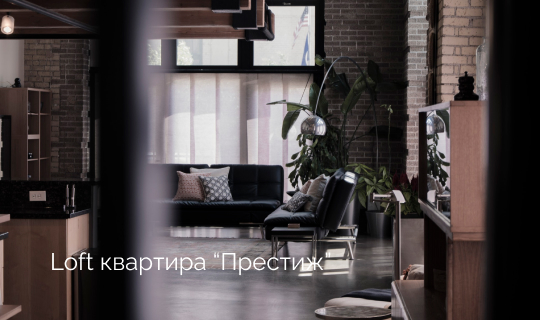
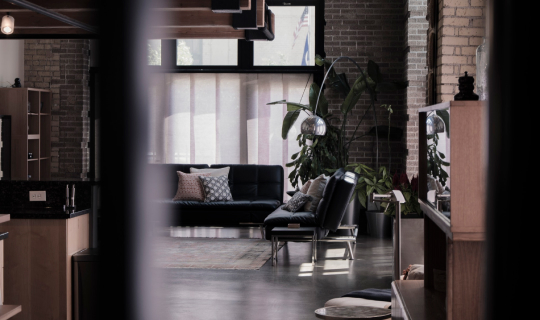
appartment cards media

Changed region(s): [[0.0889, 0.7812, 0.5926, 0.8438], [0.5926, 0.7812, 0.6222, 0.8125]]

diff --git a/dist/css/style.min.css b/dist/css/style.min.css
@@ -1,1 +1,1 @@
-@import url(https://fonts.googleapis.com/css2?family=Playfair+Display:wght@700&family=Raleway:wght@400;700&family=Roboto:wght@300&display=swap);*{padding:0;margin:0;box-sizing:border-box}li{list-style-type:none}ul{margin:0}.none{display:none}body{font-family:Raleway,sans-serif;background-color:#242b33;color:#fff;font-size:16px}a{text-decoration:none;color:#fff;transition:color .2s ease-in}a:hover{color:#d4c17f}.container{max-width:1110px;width:100%;padding:0 15px;margin:0 auto}.text-right{text-align:right}.title-2{font-size:36px;font-weight:700;font-family:"Playfair Display",serif;color:#d4c17f}.link-bold{color:#d4c17f;font-weight:700}.no-scroll{overflow-y:hidden}.header{display:flex;flex-direction:column;justify-content:space-between;padding-top:30px;padding-bottom:74px;min-height:840px;background:linear-gradient(180deg,#242b33 11.98%,rgba(45,52,60,.38) 51.04%,#242b33 92.19%),url(../img/header/header-bg.jpg) no-repeat center/cover}@media screen and (max-width:999px){.header{min-height:unset;row-gap:50px}}.header__top-row{display:flex;justify-content:space-between;align-items:center}.header__top-row--mobile{position:fixed;top:40px;right:0;width:100%;height:100%;background:#242b33;z-index:99;flex-direction:column;justify-content:flex-start}.header__top-row--mobile .header__nav-btn{position:fixed;top:50px;right:15px}.header__top-row--mobile .header__nav{display:block}.header__top-row--mobile .nav__list{flex-direction:column;align-items:center;row-gap:15px}@media screen and (max-width:999px){.header__nav{display:none}}.header__nav-btn{display:none}@media screen and (max-width:999px){.header__nav-btn{display:block}}.header__title{position:relative;padding-bottom:121px;text-align:center;font-size:48px;font-family:"Playfair Display",serif;font-weight:700;color:#d4c17f}@media screen and (max-width:999px){.header__title{font-size:32px;padding-bottom:100px}}.header__title-icon{position:absolute;bottom:0;left:50%;transform:translate(-50%,0)}.header__bottom{display:grid;grid-template-columns:1fr 1fr;gap:100px}@media screen and (max-width:999px){.header__bottom{display:flex;flex-direction:column;align-items:center;row-gap:50px;font-size:14px}}nav{font-size:14px;letter-spacing:.05em}.nav__list{display:flex;-moz-column-gap:40px;column-gap:40px}.nav-icon-btn{--time:0.1s;--width:40px;--height:30px;--line-height:1.6px;--line-margin:2;--color:#fff;height:var(--height);width:var(--width);display:flex;justify-content:center;align-items:center;border:none;background:rgba(0,0,0,0)}.nav-icon{position:relative;width:var(--width);height:var(--line-height);background-color:var(--color)}.nav-icon::after,.nav-icon::before{content:"";display:block;position:absolute;left:0;width:var(--width);height:var(--line-height);background-color:var(--color);transition:transform var(--time) ease-in,top var(--time) linear var(--time)}.nav-icon::before{top:calc(var(--line-height)*-6)}.nav-icon::after{top:calc(var(--line-height)*6)}.nav-icon.nav-icon--active{background-color:rgba(0,0,0,0)}.nav-icon.nav-icon--active::after,.nav-icon.nav-icon--active::before{top:0;transition:top var(--time) linear,transform var(--time) ease-in var(--time)}.nav-icon.nav-icon--active::before{transform:rotate(45deg)}.nav-icon.nav-icon--active::after{transform:rotate(-45deg)}.info__map,.info__tel{position:relative;font-size:18px;padding-left:35px}.info__map::before,.info__tel::before{content:"";position:absolute;top:0;left:0;width:21px;height:21px;background:url(../img/phone.svg) no-repeat}.info__map::before{content:"";position:absolute;top:50%;left:0;width:21px;height:21px;transform:translate(0,-50%);background:url(../img/map.svg) no-repeat;background-position:center}.benefits{position:relative;padding:120px 0;overflow:hidden}.benefits::after{content:"II";left:calc(50% + 555px);transform:translate(-50%,0);position:absolute;top:0;z-index:-1;line-height:1.15;opacity:.02;font-size:400px;font-family:"Playfair Display",serif}.benefits__row{display:flex;justify-content:center;-moz-column-gap:70px;column-gap:70px}@media screen and (max-width:999px){.benefits__row{display:grid;grid-template-columns:repeat(auto-fit,minmax(290px,1fr));gap:40px 30px}}.benefits__item{text-align:center}.benefits__item-img{margin-bottom:53px}@media screen and (max-width:999px){.benefits__item-img{width:60px;height:60px;margin-bottom:20px}}.benefits__item-text{font-family:Roboto,sans-serif;font-size:20px;font-weight:300;line-height:1.35}@media screen and (max-width:999px){.benefits__item-text{font-size:16px}}.appartments{position:relative}.appartments::before{content:"III";right:calc(50% + 555px);transform:translate(50%,0);position:absolute;top:0;z-index:-1;line-height:1.15;opacity:.02;font-size:400px;font-family:"Playfair Display",serif}.appartments__title{margin-bottom:88px}.appartments__cards{display:grid;grid-template-columns:repeat(2,1fr);gap:30px}.card{display:inline-block;position:relative;color:#fff;overflow:hidden}.card::before{content:"";position:absolute;top:0;left:0;width:100%;height:100%;z-index:6;background:linear-gradient(180deg,rgba(36,43,51,0) 0,#242b33 100%)}.card::after{content:"";position:absolute;opacity:0;top:10px;left:10px;right:10px;bottom:10px;border:3px double rgba(255,255,255,.4);z-index:7}.card:hover::after{opacity:1;transition:opacity .3s ease-in}.card:hover{color:#fff}.card__title{position:absolute;left:50px;right:20px;bottom:44px;font-size:24px;z-index:9}.card__img{position:relative;z-index:5;transition:all .3s ease-in}.card:hover .card__img{transform:scale(1.1);-webkit-filter:contrast(110%) brightness(1.2) saturate(1.2);filter:contrast(110%) brightness(1.2) saturate(1.2)}.cta{padding:180px 0;background:linear-gradient(180deg,#242b33 10.42%,rgba(36,43,51,0) 50.52%,#242b33 90.1%),linear-gradient(0deg,rgba(36,43,51,.9),rgba(36,43,51,.9)),url(../img/cta/cta-bg.jpg),#c4c4c4}.cta__title{margin-bottom:17px}.cta__wrapper{display:grid;grid-template-columns:1fr 1fr;gap:30px}.cta__text{line-height:1.5}.form__input{height:50px;padding:12px;text-align:center;background-color:rgba(255,255,255,.2);outline:0;border:none;color:#fff;font-size:14px;transition:background-color .2s ease-in}.form__input::-webkit-input-placeholder{color:#bebebe}.form__input::-moz-placeholder{color:#bebebe}.form__input:-ms-input-placeholder{color:#bebebe}.form__input::-ms-input-placeholder{color:#bebebe}.form__input::placeholder{color:#bebebe}.form__input:focus{background-color:rgba(255,255,255,.3)}.form__btn{height:50px;font-size:16px;padding:12px;background-color:#d4c17f;border:none;color:#fff;text-align:center;transition:background-color .2s ease-in}.form__btn:hover{background-color:#e5ca6e}.form__privacy{font-size:13px;color:#e7e7e7;line-height:1.23;text-align:center;margin-top:11px}.cta__form{display:grid;grid-template-columns:1fr 1fr;gap:35px 30px}.video{position:relative;text-align:center}.video::after{content:"IV";left:calc(50% + 555px);transform:translate(-50%,0);position:absolute;top:0;z-index:-1;line-height:1.15;opacity:.02;font-size:400px;font-family:"Playfair Display",serif}.video__link{position:relative;display:inline-block;text-align:center}.video__link::before{content:"";position:absolute;top:0;left:0;width:100%;height:100%;background:rgba(36,43,51,.8);transition:background-color .2s ease-in}.video__link:hover::before{background:rgba(36,43,51,.7)}.video__icon{position:absolute;top:50%;left:50%;transform:translate(-50%,-50%);transition:all .2s ease-in}.video__link:hover .video__icon{transform:translate(-50%,-50%) scale(1.2);-webkit-filter:saturate(1.5);filter:saturate(1.5)}.section-map{position:relative;padding:180px 0}.section-map::before{content:"V";right:calc(50% + 555px);transform:translate(50%,0);position:absolute;top:0;z-index:-1;line-height:1.15;opacity:.02;font-size:400px;font-family:"Playfair Display",serif;top:180;line-height:1}.section-map__title{padding-bottom:88px}.map{height:358px;background:#696969}.feadback{padding-bottom:180px}.feadback__title{margin-bottom:38px}.feadback__form{display:grid;grid-template-columns:repeat(4,1fr);gap:30px;align-items:center}.footer{padding:72px 0 51px;background-color:#2d343c;font-size:14px;letter-spacing:.05rem}.footer__grid{display:grid;grid-template-columns:repeat(4,1fr);gap:30px}.footer__logo{margin-top:-12px}.footer__nav-list{display:grid;gap:15px}.footer__address{display:grid;gap:20px}.footer__socials{display:flex;align-items:center;-moz-column-gap:22px;column-gap:22px}
+@import url(https://fonts.googleapis.com/css2?family=Playfair+Display:wght@700&family=Raleway:wght@400;700&family=Roboto:wght@300&display=swap);*{padding:0;margin:0;box-sizing:border-box}li{list-style-type:none}ul{margin:0}.none{display:none}body{font-family:Raleway,sans-serif;background-color:#242b33;color:#fff;font-size:16px}a{text-decoration:none;color:#fff;transition:color .2s ease-in}a:hover{color:#d4c17f}.container{max-width:1110px;width:100%;padding:0 15px;margin:0 auto}.text-right{text-align:right}.title-2{font-size:36px;font-weight:700;font-family:"Playfair Display",serif;color:#d4c17f}@media screen and (max-width:959px){.title-2{font-size:28px}}.link-bold{color:#d4c17f;font-weight:700}.no-scroll{overflow-y:hidden}.header{display:flex;flex-direction:column;justify-content:space-between;padding-top:30px;padding-bottom:74px;min-height:840px;background:linear-gradient(180deg,#242b33 11.98%,rgba(45,52,60,.38) 51.04%,#242b33 92.19%),url(../img/header/header-bg.jpg) no-repeat center/cover}@media screen and (max-width:959px){.header{min-height:unset;row-gap:50px}}.header__top-row{display:flex;justify-content:space-between;align-items:center}.header__top-row--mobile{position:fixed;top:40px;right:0;width:100%;height:100%;background:#242b33;z-index:99;flex-direction:column;justify-content:flex-start}.header__top-row--mobile .header__nav-btn{position:fixed;top:50px;right:15px}.header__top-row--mobile .header__nav{display:block}.header__top-row--mobile .nav__list{flex-direction:column;align-items:center;row-gap:15px}@media screen and (max-width:959px){.header__nav{display:none}}.header__nav-btn{display:none}@media screen and (max-width:959px){.header__nav-btn{display:block}}.header__title{position:relative;padding-bottom:121px;text-align:center;font-size:48px;font-family:"Playfair Display",serif;font-weight:700;color:#d4c17f}@media screen and (max-width:959px){.header__title{font-size:32px;padding-bottom:100px}}.header__title-icon{position:absolute;bottom:0;left:50%;transform:translate(-50%,0)}.header__bottom{display:grid;grid-template-columns:1fr 1fr;gap:100px}@media screen and (max-width:959px){.header__bottom{display:flex;flex-direction:column;align-items:center;row-gap:50px;font-size:14px}}nav{font-size:14px;letter-spacing:.05em}.nav__list{display:flex;-moz-column-gap:40px;column-gap:40px}.nav-icon-btn{--time:0.1s;--width:40px;--height:30px;--line-height:1.6px;--line-margin:2;--color:#fff;height:var(--height);width:var(--width);display:flex;justify-content:center;align-items:center;border:none;background:rgba(0,0,0,0)}.nav-icon{position:relative;width:var(--width);height:var(--line-height);background-color:var(--color)}.nav-icon::after,.nav-icon::before{content:"";display:block;position:absolute;left:0;width:var(--width);height:var(--line-height);background-color:var(--color);transition:transform var(--time) ease-in,top var(--time) linear var(--time)}.nav-icon::before{top:calc(var(--line-height)*-6)}.nav-icon::after{top:calc(var(--line-height)*6)}.nav-icon.nav-icon--active{background-color:rgba(0,0,0,0)}.nav-icon.nav-icon--active::after,.nav-icon.nav-icon--active::before{top:0;transition:top var(--time) linear,transform var(--time) ease-in var(--time)}.nav-icon.nav-icon--active::before{transform:rotate(45deg)}.nav-icon.nav-icon--active::after{transform:rotate(-45deg)}.info__map,.info__tel{position:relative;font-size:18px;padding-left:35px}.info__map::before,.info__tel::before{content:"";position:absolute;top:0;left:0;width:21px;height:21px;background:url(../img/phone.svg) no-repeat}.info__map::before{content:"";position:absolute;top:50%;left:0;width:21px;height:21px;transform:translate(0,-50%);background:url(../img/map.svg) no-repeat;background-position:center}.benefits{position:relative;padding:120px 0;overflow:hidden}.benefits::after{content:"II";left:calc(50% + 555px);transform:translate(-50%,0);position:absolute;top:0;z-index:-1;line-height:1.15;opacity:.02;font-size:400px;font-family:"Playfair Display",serif}.benefits__row{display:flex;justify-content:center;-moz-column-gap:70px;column-gap:70px}@media screen and (max-width:959px){.benefits__row{display:grid;grid-template-columns:repeat(auto-fit,minmax(290px,1fr));gap:40px 30px}}.benefits__item{text-align:center}.benefits__item-img{margin-bottom:53px}@media screen and (max-width:959px){.benefits__item-img{width:60px;height:60px;margin-bottom:20px}}.benefits__item-text{font-family:Roboto,sans-serif;font-size:20px;font-weight:300;line-height:1.35}@media screen and (max-width:959px){.benefits__item-text{font-size:16px}}.appartments{position:relative}.appartments::before{content:"III";right:calc(50% + 555px);transform:translate(50%,0);position:absolute;top:0;z-index:-1;line-height:1.15;opacity:.02;font-size:400px;font-family:"Playfair Display",serif}.appartments__title{margin-bottom:88px}@media screen and (max-width:959px){.appartments__title{margin-bottom:44px}}.appartments__cards{display:grid;grid-template-columns:repeat(2,1fr);gap:30px}@media screen and (max-width:959px){.appartments__cards{grid-template-columns:repeat(auto-fit,minmax(290px,1fr))}}.card{display:inline-block;position:relative;color:#fff;overflow:hidden}.card::before{content:"";position:absolute;top:0;left:0;width:100%;height:100%;z-index:6;background:linear-gradient(180deg,rgba(36,43,51,0) 0,#242b33 100%)}.card::after{content:"";position:absolute;opacity:0;top:10px;left:10px;right:10px;bottom:10px;border:3px double rgba(255,255,255,.4);z-index:7}.card:hover::after{opacity:1;transition:opacity .3s ease-in}.card:hover{color:#fff}.card__title{position:absolute;left:50px;right:20px;bottom:44px;font-size:24px;z-index:9}@media screen and (max-width:959px){.card__title{font-size:20px;left:30px;bottom:30px}}.card__img{position:relative;z-index:5;transition:all .3s ease-in}.card:hover .card__img{transform:scale(1.1);-webkit-filter:contrast(110%) brightness(1.2) saturate(1.2);filter:contrast(110%) brightness(1.2) saturate(1.2)}.cta{padding:180px 0;background:linear-gradient(180deg,#242b33 10.42%,rgba(36,43,51,0) 50.52%,#242b33 90.1%),linear-gradient(0deg,rgba(36,43,51,.9),rgba(36,43,51,.9)),url(../img/cta/cta-bg.jpg),#c4c4c4}.cta__title{margin-bottom:17px}.cta__wrapper{display:grid;grid-template-columns:1fr 1fr;gap:30px}.cta__text{line-height:1.5}.form__input{height:50px;padding:12px;text-align:center;background-color:rgba(255,255,255,.2);outline:0;border:none;color:#fff;font-size:14px;transition:background-color .2s ease-in}.form__input::-webkit-input-placeholder{color:#bebebe}.form__input::-moz-placeholder{color:#bebebe}.form__input:-ms-input-placeholder{color:#bebebe}.form__input::-ms-input-placeholder{color:#bebebe}.form__input::placeholder{color:#bebebe}.form__input:focus{background-color:rgba(255,255,255,.3)}.form__btn{height:50px;font-size:16px;padding:12px;background-color:#d4c17f;border:none;color:#fff;text-align:center;transition:background-color .2s ease-in}.form__btn:hover{background-color:#e5ca6e}.form__privacy{font-size:13px;color:#e7e7e7;line-height:1.23;text-align:center;margin-top:11px}.cta__form{display:grid;grid-template-columns:1fr 1fr;gap:35px 30px}.video{position:relative;text-align:center}.video::after{content:"IV";left:calc(50% + 555px);transform:translate(-50%,0);position:absolute;top:0;z-index:-1;line-height:1.15;opacity:.02;font-size:400px;font-family:"Playfair Display",serif}.video__link{position:relative;display:inline-block;text-align:center}.video__link::before{content:"";position:absolute;top:0;left:0;width:100%;height:100%;background:rgba(36,43,51,.8);transition:background-color .2s ease-in}.video__link:hover::before{background:rgba(36,43,51,.7)}.video__icon{position:absolute;top:50%;left:50%;transform:translate(-50%,-50%);transition:all .2s ease-in}.video__link:hover .video__icon{transform:translate(-50%,-50%) scale(1.2);-webkit-filter:saturate(1.5);filter:saturate(1.5)}.section-map{position:relative;padding:180px 0}.section-map::before{content:"V";right:calc(50% + 555px);transform:translate(50%,0);position:absolute;top:0;z-index:-1;line-height:1.15;opacity:.02;font-size:400px;font-family:"Playfair Display",serif;top:180;line-height:1}.section-map__title{padding-bottom:88px}.map{height:358px;background:#696969}.feadback{padding-bottom:180px}.feadback__title{margin-bottom:38px}.feadback__form{display:grid;grid-template-columns:repeat(4,1fr);gap:30px;align-items:center}.footer{padding:72px 0 51px;background-color:#2d343c;font-size:14px;letter-spacing:.05rem}.footer__grid{display:grid;grid-template-columns:repeat(4,1fr);gap:30px}.footer__logo{margin-top:-12px}.footer__nav-list{display:grid;gap:15px}.footer__address{display:grid;gap:20px}.footer__socials{display:flex;align-items:center;-moz-column-gap:22px;column-gap:22px}

diff --git a/dist/index.html b/dist/index.html
@@ -1,1 +1,1 @@
-<!DOCTYPE html><html lang="en"><head><meta charset="UTF-8"><meta http-equiv="X-UA-Compatible" content="IE=edge"><meta name="viewport" content="width=device-width,initial-scale=1"><title>LoftHouse</title><link rel="stylesheet" href="./css/style.min.css"></head><body><header class="header"><div class="header__top"><div class="container"><div class="header__top-row"><a href="#!"><img src="./img/logo.svg" alt="LoftHouse"><div class="header__nav"><nav class="nav"><ul class="nav__list"><li><a href="#!">О комплексе</a></li><li><a href="#!">Район</a></li><li><a href="#!">Каталог квартир</a></li><li><a href="#!">Ипотека</a></li><li><a href="#!">Контакты</a></li></ul></nav></div><div class="header__nav-btn"><button class="nav-icon-btn"><div class="nav-icon"></div></button></div></a></div></div></div><div class="container"><h1 class="header__title">Жилой комплекс<br>в историческом центре <a href="#benefits"><img class="header__title-icon" src="./img/mouse.svg" alt="Scroll naxt"></a></h1></div><div class="header__bottom"><div class="text-right"><a href="#section-map" class="info__map">Наб. реки Фонтанки 10-15</a></div><a href="tel:+78121234567" class="info__tel">8 (812) 123-45-67</a></div></header><main><section class="benefits"><div class="container"><div class="benefits__row"><div class="benefits__item"><img src="./img/benefits/Group.png" alt="" class="benefits__item-img"><p class="benefits__item-text">Рядом исторические<br>парки и скверы</p></div><div class="benefits__item"><img src="./img/benefits/building.png" alt="" class="benefits__item-img"><p class="benefits__item-text">Полностью<br>обустроенный</p></div><div class="benefits__item"><img src="./img/benefits/fountain.png" alt="" class="benefits__item-img"><p class="benefits__item-text">10 фонтанов<br>на территории</p></div><div class="benefits__item"><img src="./img/benefits/bicycle.png" alt="" class="benefits__item-img"><p class="benefits__item-text">6 км<br>велодорожек</p></div></div></div></section><section class="appartments none"><div class="container"><div class="appartments__title"><div class="title-2">Наши квартиры</div></div><div class="appartments__cards"><a href="#!" class="card"><img src="./img/cards/01.jpg" alt="Пентхаус “Loft Олимп”" class="card__img"><h3 class="card__title">Пентхаус “Loft Олимп”</h3></a><a href="#!" class="card"><img src="./img/cards/02.png" alt="Апартаменты “Nice Loft””" class="card__img"><h3 class="card__title">Апартаменты “Nice Loft””</h3></a><a href="#!" class="card"><img src="./img/cards/03.png" alt="Апартаменты “Nice Loft””" class="card__img"><h3 class="card__title">Апартаменты “Nice Loft””</h3></a><a href="#!" class="card"><img src="./img/cards/04.jpg" alt="Loft квартира “Престиж””" class="card__img"><h3 class="card__title">Loft квартира “Престиж”</h3></a></div></div></section><section class="cta none"><div class="container"><div class="cta__title"><h2 class="title-2">Хотите посмотреть?</h2></div><div class="cta__wrapper"><div class="cta__text"><p>ЖК LoftHouse – это проект бизнес-класса, расположенный в центре города, на Наб. реки Фонтанки 10-15. Комплекс предлагает своим жильцам квартиры площадью от 40 до 170 кв. м. В здании будет три секции, в которых разместится всего 56 квартир.</p></div><form action="" class="cta__form form"><input type="text" class="form__input" placeholder="Ваше имя"> <input type="text" class="form__input" placeholder="Ваш телефон"><p class="form__privacy">*Мы никому не передаем ваши данные.<br>И не сохраняем ваш номер в базу.</p><button type="submit" class="form__btn">Посмотреть район</button></form></div></div></section><section class="video none"><div class="container"><a href="https://www.youtube.com/watch?v=3_v5ewEcARw&pp=ygUj0LTQuNC30LDQudC90LXRgCDQuNC90YLQtdGA0YzQtdGA0LA%3D" class="video__link"><img src="./img/video/play.svg" alt="" class="video__icon"> <img src="./img/video/video-img.jpg" alt="" class="video__img"></a></div></section><section class="section-map none"><div class="container"><div class="section-map__title"><h2 class="title-2">Район на карте</h2></div><div class="section-map__map"><div class="map" id="map"></div></div></div></section><section class="feadback none"><div class="container"><div class="feadback__title"><h2 class="title-2">Есть вопросы?</h2></div><form action="" class="feadback__form form"><p class="form__privacy">*Мы никому не передаем ваши данные.<br>И не сохраняем ваш номер в базу.</p><input class="form__input" type="text" placeholder="Ваше имя"> <input class="form__input" type="text" placeholder="Ваш телефон"> <button type="submit" class="form__btn">Посмотреть район</button></form></div></section></main><footer class="footer none"><div class="container"><div class="footer__grid"><div class="footer__logo"><a href="#!"><img src="./img/logo.svg" alt="LoftHouse"></a></div><div class="footer__nav"><nav><ul class="footer__nav-list"><li><a href="!#">О комплексе</a></li><li><a href="!#">Район</a></li><li><a href="!#">Каталог квартир</a></li><li><a href="!#">Ипотека</a></li><li><a href="!#">Контакты</a></li></ul></nav></div><div class="footer__nav"><nav><ul class="footer__nav-list"><li><a href="!#">Поселение и переезд</a></li><li><a href="!#">Сервисные услуги</a></li><li><a href="!#">Экологическая устойчивость</a></li><li><a href="!#">Инвестиционные возможности</a></li><li><a href="!#">Программа лояльности</a></li></ul></nav></div><div class="footer__address"><ul class="footer__nav-list"><li>Адрес: Наб. реки Фонтанки 10-15</li><li>Телефон: <a href="tel:+78121234567">8 (812) 123-45-67</a></li><li>Отдел продаж: 10:00 - 20:00</li><li>E-mail: <a class="link-bold" href="mailto:vip@lofthouse.ru">vip@lofthouse.ru</a></li></ul><ul class="footer__socials"><li><a href="!#"><img src="./img/socials/youtube.png" alt=""></a></li><li><a href="!#"><img src="./img/socials/vk.svg" alt=""></a></li><li><a href="!#"><img src="./img/socials/facebook.svg" alt=""></a></li><li><a href="!#"><img src="./img/socials/instagram.svg" alt=""></a></li></ul></div></div></div></footer><script src="js/main.js"></script></body></html>
+<!DOCTYPE html><html lang="en"><head><meta charset="UTF-8"><meta http-equiv="X-UA-Compatible" content="IE=edge"><meta name="viewport" content="width=device-width,initial-scale=1"><title>LoftHouse</title><link rel="stylesheet" href="./css/style.min.css"></head><body><header class="header none"><div class="header__top"><div class="container"><div class="header__top-row"><a href="#!"><img src="./img/logo.svg" alt="LoftHouse"><div class="header__nav"><nav class="nav"><ul class="nav__list"><li><a href="#!">О комплексе</a></li><li><a href="#!">Район</a></li><li><a href="#!">Каталог квартир</a></li><li><a href="#!">Ипотека</a></li><li><a href="#!">Контакты</a></li></ul></nav></div><div class="header__nav-btn"><button class="nav-icon-btn"><div class="nav-icon"></div></button></div></a></div></div></div><div class="container"><h1 class="header__title">Жилой комплекс<br>в историческом центре <a href="#benefits"><img class="header__title-icon" src="./img/mouse.svg" alt="Scroll naxt"></a></h1></div><div class="header__bottom"><div class="text-right"><a href="#section-map" class="info__map">Наб. реки Фонтанки 10-15</a></div><a href="tel:+78121234567" class="info__tel">8 (812) 123-45-67</a></div></header><main><section class="benefits none"><div class="container"><div class="benefits__row"><div class="benefits__item"><img src="./img/benefits/Group.png" alt="" class="benefits__item-img"><p class="benefits__item-text">Рядом исторические<br>парки и скверы</p></div><div class="benefits__item"><img src="./img/benefits/building.png" alt="" class="benefits__item-img"><p class="benefits__item-text">Полностью<br>обустроенный</p></div><div class="benefits__item"><img src="./img/benefits/fountain.png" alt="" class="benefits__item-img"><p class="benefits__item-text">10 фонтанов<br>на территории</p></div><div class="benefits__item"><img src="./img/benefits/bicycle.png" alt="" class="benefits__item-img"><p class="benefits__item-text">6 км<br>велодорожек</p></div></div></div></section><section class="appartments none1"><div class="container"><div class="appartments__title"><div class="title-2">Наши квартиры</div></div><div class="appartments__cards"><a href="#!" class="card"><img src="./img/cards/01.jpg" alt="Пентхаус “Loft Олимп”" class="card__img"><h3 class="card__title">Пентхаус “Loft Олимп”</h3></a><a href="#!" class="card"><img src="./img/cards/02.jpg" alt="Апартаменты “Nice Loft””" class="card__img"><h3 class="card__title">Апартаменты “Nice Loft””</h3></a><a href="#!" class="card"><img src="./img/cards/03.jpg" alt="Апартаменты “Nice Loft””" class="card__img"><h3 class="card__title">Апартаменты “Nice Loft””</h3></a><a href="#!" class="card"><img src="./img/cards/04.jpg" alt="Loft квартира “Престиж””" class="card__img"><h3 class="card__title">Loft квартира “Престиж”</h3></a></div></div></section><section class="cta none"><div class="container"><div class="cta__title"><h2 class="title-2">Хотите посмотреть?</h2></div><div class="cta__wrapper"><div class="cta__text"><p>ЖК LoftHouse – это проект бизнес-класса, расположенный в центре города, на Наб. реки Фонтанки 10-15. Комплекс предлагает своим жильцам квартиры площадью от 40 до 170 кв. м. В здании будет три секции, в которых разместится всего 56 квартир.</p></div><form action="" class="cta__form form"><input type="text" class="form__input" placeholder="Ваше имя"> <input type="text" class="form__input" placeholder="Ваш телефон"><p class="form__privacy">*Мы никому не передаем ваши данные.<br>И не сохраняем ваш номер в базу.</p><button type="submit" class="form__btn">Посмотреть район</button></form></div></div></section><section class="video none"><div class="container"><a href="https://www.youtube.com/watch?v=3_v5ewEcARw&pp=ygUj0LTQuNC30LDQudC90LXRgCDQuNC90YLQtdGA0YzQtdGA0LA%3D" class="video__link"><img src="./img/video/play.svg" alt="" class="video__icon"> <img src="./img/video/video-img.jpg" alt="" class="video__img"></a></div></section><section class="section-map none"><div class="container"><div class="section-map__title"><h2 class="title-2">Район на карте</h2></div><div class="section-map__map"><div class="map" id="map"></div></div></div></section><section class="feadback none"><div class="container"><div class="feadback__title"><h2 class="title-2">Есть вопросы?</h2></div><form action="" class="feadback__form form"><p class="form__privacy">*Мы никому не передаем ваши данные.<br>И не сохраняем ваш номер в базу.</p><input class="form__input" type="text" placeholder="Ваше имя"> <input class="form__input" type="text" placeholder="Ваш телефон"> <button type="submit" class="form__btn">Посмотреть район</button></form></div></section></main><footer class="footer none"><div class="container"><div class="footer__grid"><div class="footer__logo"><a href="#!"><img src="./img/logo.svg" alt="LoftHouse"></a></div><div class="footer__nav"><nav><ul class="footer__nav-list"><li><a href="!#">О комплексе</a></li><li><a href="!#">Район</a></li><li><a href="!#">Каталог квартир</a></li><li><a href="!#">Ипотека</a></li><li><a href="!#">Контакты</a></li></ul></nav></div><div class="footer__nav"><nav><ul class="footer__nav-list"><li><a href="!#">Поселение и переезд</a></li><li><a href="!#">Сервисные услуги</a></li><li><a href="!#">Экологическая устойчивость</a></li><li><a href="!#">Инвестиционные возможности</a></li><li><a href="!#">Программа лояльности</a></li></ul></nav></div><div class="footer__address"><ul class="footer__nav-list"><li>Адрес: Наб. реки Фонтанки 10-15</li><li>Телефон: <a href="tel:+78121234567">8 (812) 123-45-67</a></li><li>Отдел продаж: 10:00 - 20:00</li><li>E-mail: <a class="link-bold" href="mailto:vip@lofthouse.ru">vip@lofthouse.ru</a></li></ul><ul class="footer__socials"><li><a href="!#"><img src="./img/socials/youtube.png" alt=""></a></li><li><a href="!#"><img src="./img/socials/vk.svg" alt=""></a></li><li><a href="!#"><img src="./img/socials/facebook.svg" alt=""></a></li><li><a href="!#"><img src="./img/socials/instagram.svg" alt=""></a></li></ul></div></div></div></footer><script src="js/main.js"></script></body></html>

diff --git a/src/index.html b/src/index.html
@@ -8,7 +8,7 @@
     <link rel="stylesheet" href="./css/style.min.css">
 </head>
 <body>
-    <header class="header">
+    <header class="header none">
         <div class="header__top">
             <div class="container">
                   <div class="header__top-row">
@@ -53,7 +53,7 @@
         </div>
     </header>
     <main>
-        <section class="benefits">
+        <section class="benefits none">
             <div class="container">
                 <div class="benefits__row">
                     <div class="benefits__item">
@@ -79,7 +79,7 @@
             </div>
         </section>
 
-        <section class="appartments none">
+        <section class="appartments none1">
             <div class="container">
                 <div class="appartments__title">
                     <div class="title-2">
@@ -94,12 +94,12 @@
                     </a>
 
                     <a href="#!" class="card">
-                        <img src="./img/cards/02.png" alt="Апартаменты “Nice Loft””" class="card__img">
+                        <img src="./img/cards/02.jpg" alt="Апартаменты “Nice Loft””" class="card__img">
                         <h3 class="card__title">Апартаменты “Nice Loft””</h3>
                     </a>
 
                     <a href="#!" class="card">
-                        <img src="./img/cards/03.png" alt="Апартаменты “Nice Loft””" class="card__img">
+                        <img src="./img/cards/03.jpg" alt="Апартаменты “Nice Loft””" class="card__img">
                         <h3 class="card__title">Апартаменты “Nice Loft””</h3>
                     </a>
 

diff --git a/src/sass/blocks/_appartments.scss b/src/sass/blocks/_appartments.scss
@@ -10,11 +10,16 @@
 
 .appartments__title{
     margin-bottom: 88px;
-}
+    @include mediaTablet{
+        margin-bottom: 44px;
+    }
+}   
 
 .appartments__cards{
     display: grid;
     grid-template-columns: repeat(2, 1fr);
-    // grid-template-columns: repeat(auto-fit, minmax(290px, 1fr));
     gap: 30px;
+    @include mediaTablet{
+        grid-template-columns: repeat(auto-fit, minmax(290px, 1fr));
+    }
 }

diff --git a/src/sass/blocks/_cards.scss b/src/sass/blocks/_cards.scss
@@ -44,6 +44,11 @@
     bottom: 44px;
     font-size: 24px;
     z-index: 9;
+    @include mediaTablet{
+        font-size: 20px;
+        left: 30px;
+        bottom: 30px;
+    }
 }
 
 .card__img{

diff --git a/src/sass/base/_base.scss b/src/sass/base/_base.scss
@@ -33,6 +33,9 @@ a{
     font-weight: 700;
     font-family: $font-accent;
     color: $accent;
+    @include mediaTablet{
+        font-size: 28px;
+    }
 }
 
 .link-bold{

diff --git a/src/sass/base/_vars.scss b/src/sass/base/_vars.scss
@@ -12,4 +12,4 @@ $placeholder: #BEBEBE;
 $muted: #E7E7E7;
 
 // Media
-$tablet: 999px;
+$tablet: 959px;
